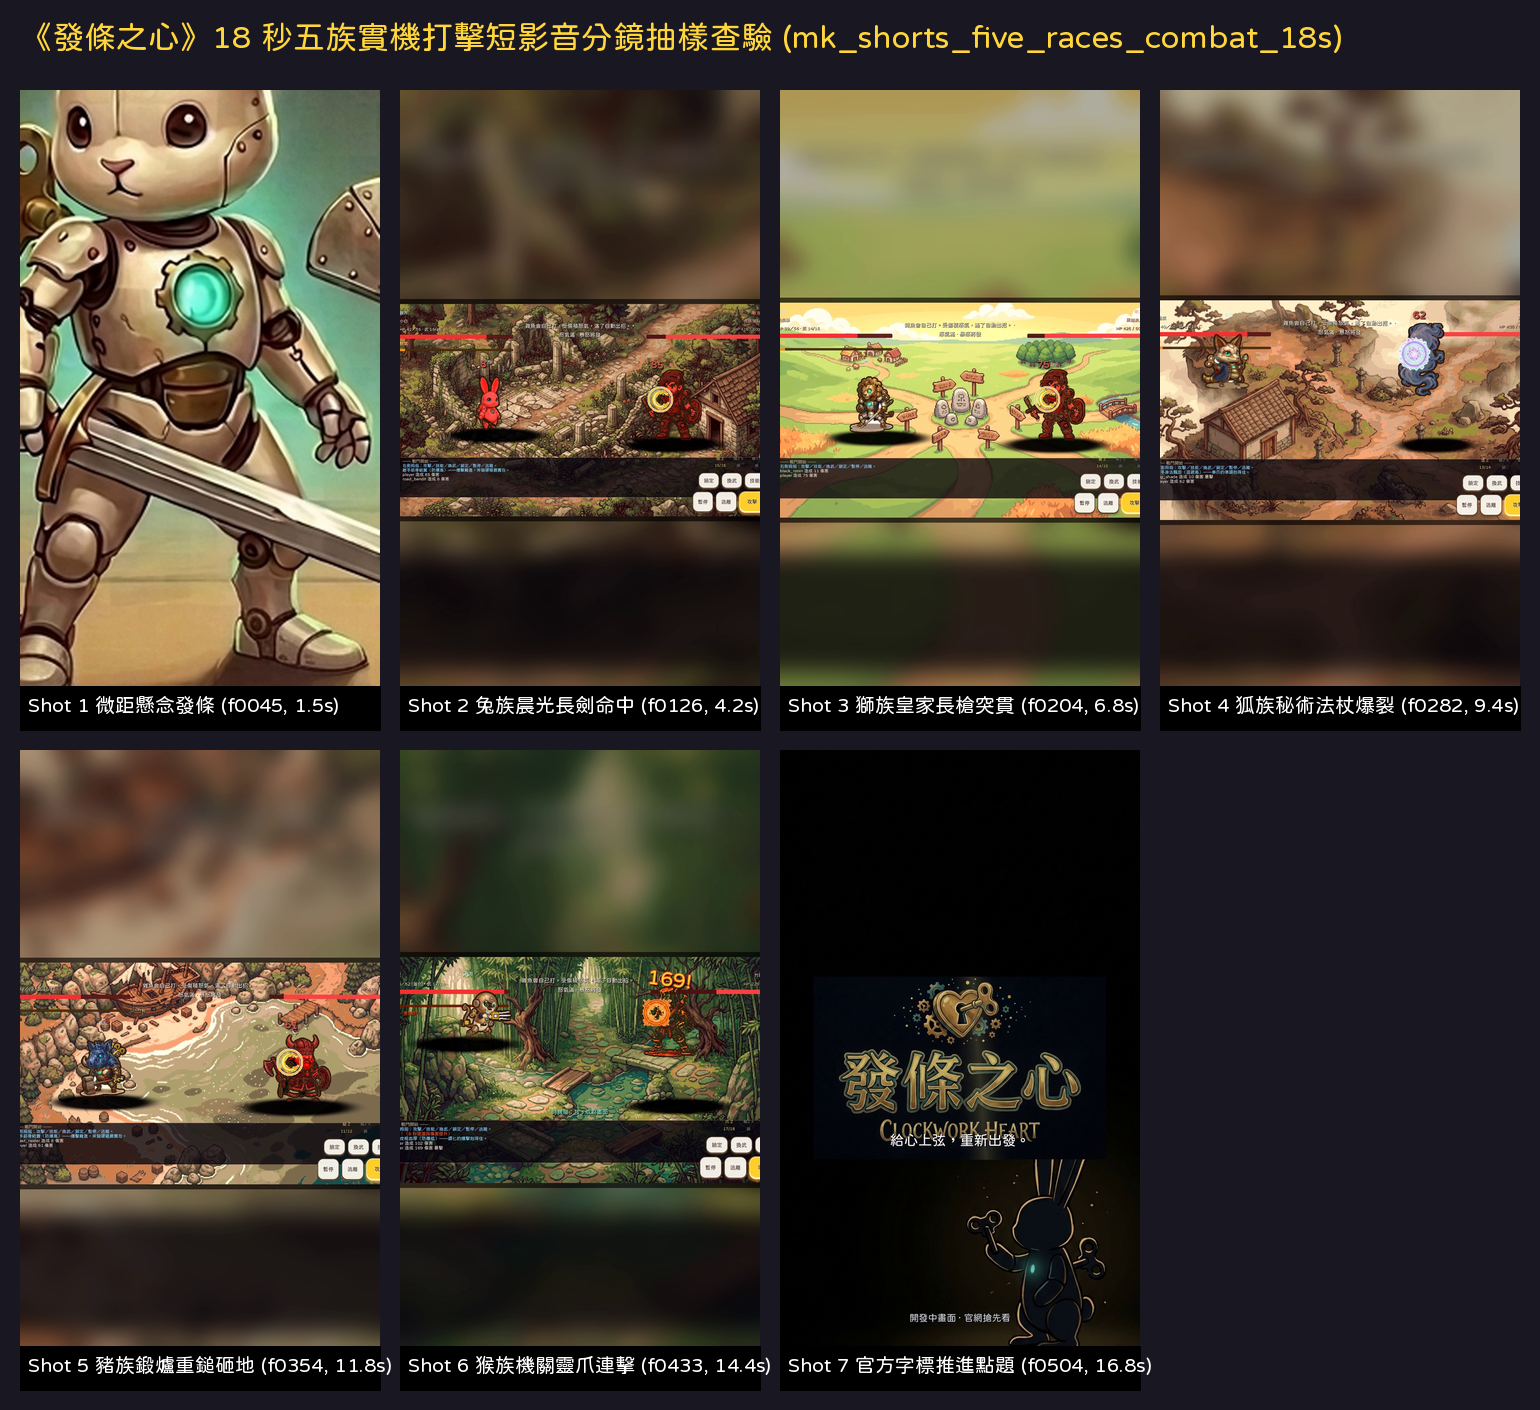
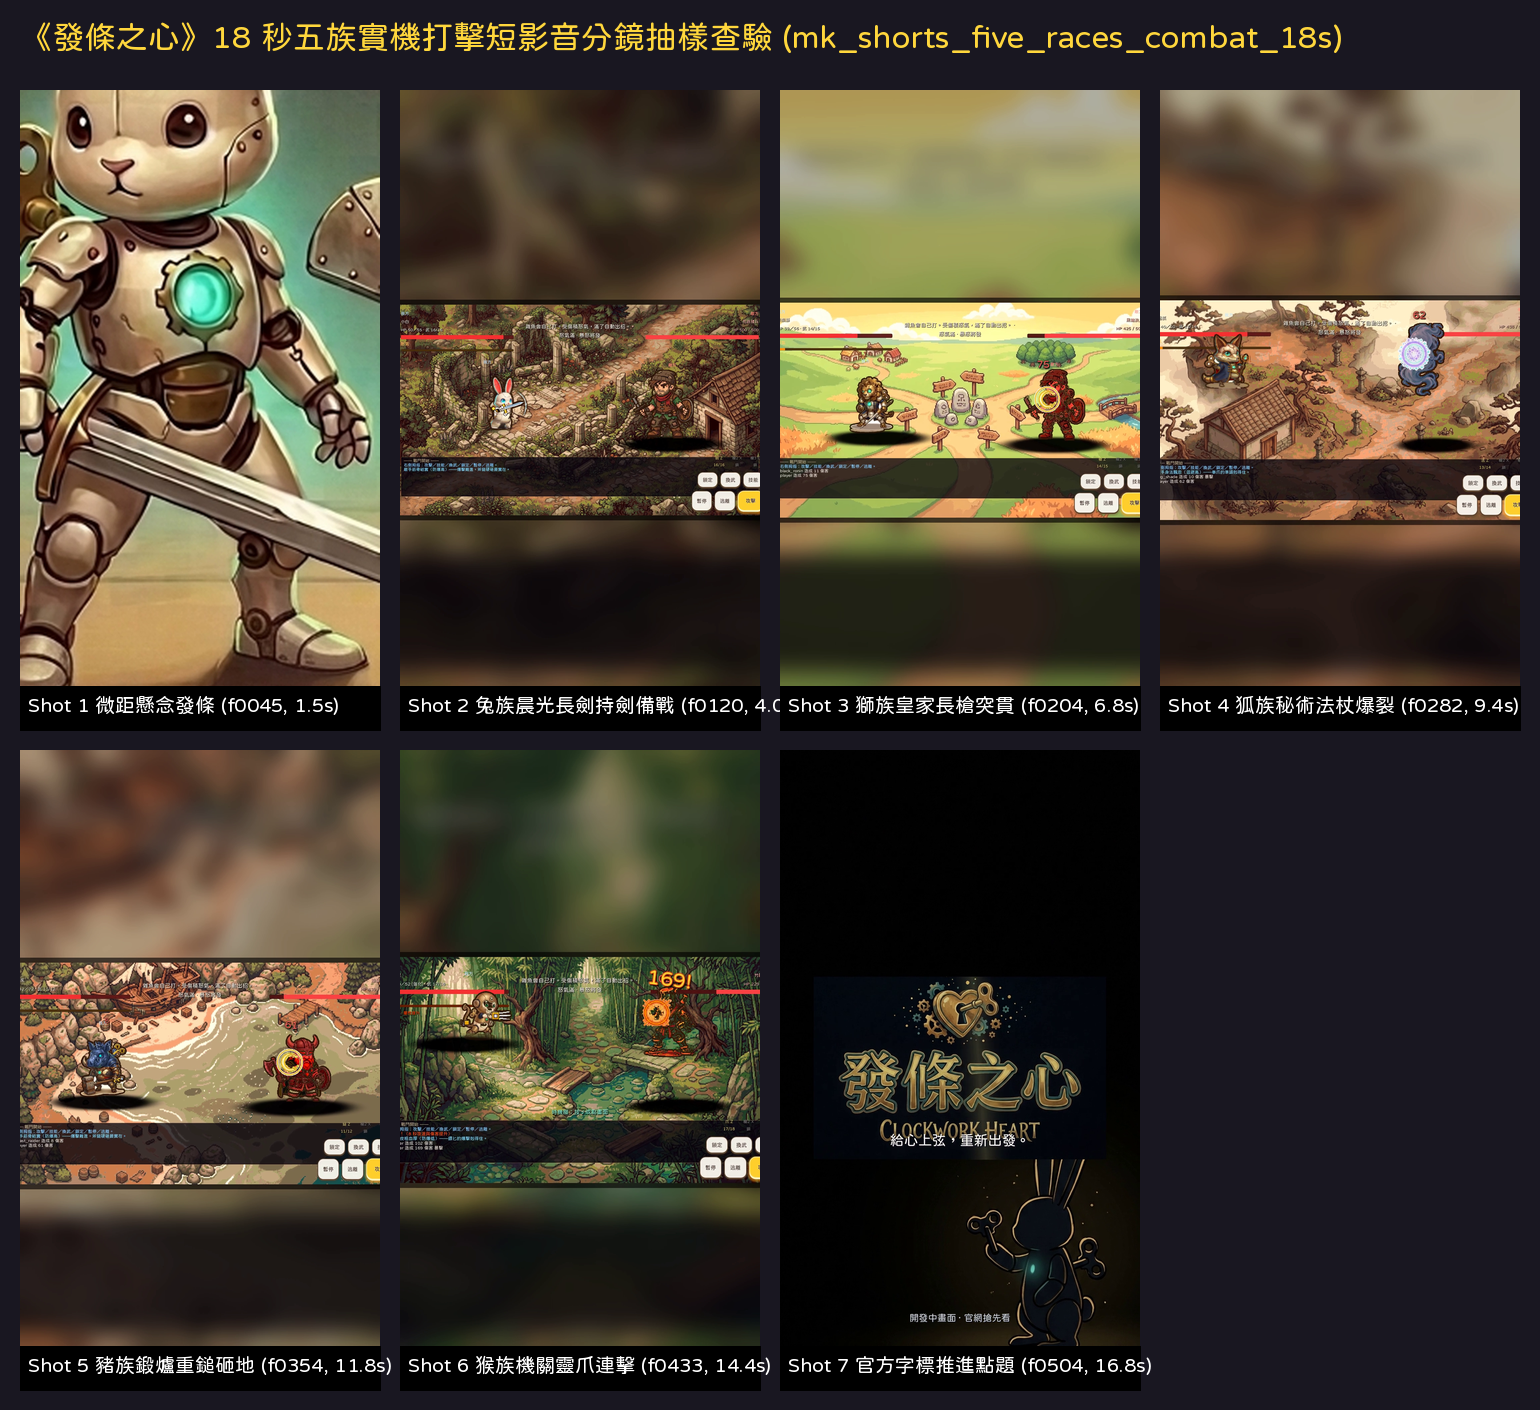
fix(marketing): 兔族抽樣改為方案 A 動作區間持劍備戰格 (f0120) 並更新 contact sheet 與同源查驗 (t_295a6376)

Changed region(s): [[0.2494, 0.2184, 0.4987, 0.3745], [0.4052, 0.4681, 0.4675, 0.5305]]

diff --git a/tools/verify_director_standards.py b/tools/verify_director_standards.py
@@ -34,7 +34,7 @@ frame_idx = 0
 
 sample_targets = {
     45: "proof_f0045_shot1_macro.png",
-    126: "proof_f0126_rabbit_dawn_blade.png",
+    120: "proof_f0120_rabbit_ready_dawn_blade.png",
     204: "proof_f0204_lion_knight_pike.png",
     282: "proof_f0282_fox_star_rod.png",
     354: "proof_f0354_boar_anvil_hammer.png",
@@ -98,17 +98,19 @@ for f_idx, proof_fname in sample_targets.items():
     # 由於 ffmpeg -ss 精確取樣與逐幀解出的時間戳對齊，驗證像素差極小 (小於 0.05)
     assert p_diff < 0.05, f"Proof {proof_fname} does not match video frame {f_idx} (diff={p_diff})!"
 
-# 6. 逐項查核五族代表格：零勝利結算畫面 (無「勝 利」、無「勝利！」)、有命中特效或傷害跳字
+# 6. 逐項查核五族代表格：零勝利結算畫面 (無「勝 利」、無「勝利！」)、武器持握與打擊效果
+# 遵照總監二退指示：採方案 A 動作區間規範，兔族代表格改為 f0120（持劍備戰），實證銀刃長劍在手；
+# 成片動作區間完整保留 f0116~f0130（拔刀→突進→命中），並在下方加驗 f0126 命中幀之受擊與跳字。
 combat_samples = [
-    ("Rabbit", "proof_f0126_rabbit_dawn_blade.png"),
-    ("Lion", "proof_f0204_lion_knight_pike.png"),
-    ("Fox", "proof_f0282_fox_star_rod.png"),
-    ("Boar", "proof_f0354_boar_anvil_hammer.png"),
-    ("Macaque", "proof_f0433_macaque_hunt_claw.png"),
+    ("Rabbit", "proof_f0120_rabbit_ready_dawn_blade.png", True),
+    ("Lion", "proof_f0204_lion_knight_pike.png", False),
+    ("Fox", "proof_f0282_fox_star_rod.png", False),
+    ("Boar", "proof_f0354_boar_anvil_hammer.png", False),
+    ("Macaque", "proof_f0433_macaque_hunt_claw.png", False),
 ]
 
-print("\n>>> 查核五族代表格之打擊效果與零勝利結算狀態 (第 19i 條):")
-for rname, fname in combat_samples:
+print("\n>>> 查核五族代表格之零勝利結算狀態與武器/打擊效果 (第 19i 條):")
+for rname, fname, is_ready_pose in combat_samples:
     p = os.path.join(SHOTS_DIR, fname)
     arr = np.array(Image.open(p).convert("RGB"))
     
@@ -128,6 +130,31 @@ for rname, fname in combat_samples:
     print(f"  [{rname}] gold_banner_px={gold_banner_px}, green_victory_px={green_victory_px}, red_hit_px={red_hit_px}, yel_hit_px={yel_hit_px}")
     assert gold_banner_px < 50, f"[{rname}] Detected victory banner in combat frame!"
     assert green_victory_px < 50, f"[{rname}] Detected victory log in combat frame!"
-    assert (red_hit_px > 200 or yel_hit_px > 200), f"[{rname}] No hit effect or damage float detected!"
+    
+    if is_ready_pose:
+        # 方案 A：兔族 f0120 為持劍備戰姿態，驗證晨光長劍（金屬刃+藍十字護手）在手
+        rabbit_box = arr[800:1100, 300:600]
+        metal_blade_px = np.sum((rabbit_box[:,:,0] > 180) & (rabbit_box[:,:,1] > 180) & (rabbit_box[:,:,2] > 180))
+        blue_guard_px = np.sum((rabbit_box[:,:,2] > 140) & (rabbit_box[:,:,2] > rabbit_box[:,:,0] + 30))
+        print(f"  [{rname}] 方案 A 持劍備戰格武器檢測: metal_blade_px={metal_blade_px}, blue_guard_px={blue_guard_px}")
+        assert metal_blade_px > 500 and blue_guard_px > 500, f"[{rname}] Weapon entity (dawn_blade) not detected in rabbit hand!"
+        assert yel_hit_px < 50, f"[{rname}] Enemy should not have golden hit ring in ready pose frame!"
+    else:
+        assert (red_hit_px > 200 or yel_hit_px > 200), f"[{rname}] No hit effect or damage float detected!"
+
+# 7. 驗證兔族成片動作區間 (f0116~f0130) 之命中受擊幀 (f0126)
+f126_arr = extracted_samples.get(126)
+if f126_arr is None:
+    # 從影片提取 frame 126
+    f126_raw = subprocess.check_output([
+        "ffmpeg", "-ss", "4.200", "-i", VIDEO_PATH, "-vframes", "1", "-f", "rawvideo", "-pix_fmt", "rgb24", "-"
+    ])
+    f126_arr = np.frombuffer(f126_raw, dtype=np.uint8).reshape((HEIGHT, WIDTH, 3))
+
+f126_enemy_box = f126_arr[750:1150, 550:950]
+f126_red_hit = np.sum((f126_enemy_box[:,:,0] > 190) & (f126_enemy_box[:,:,1] < 130) & (f126_enemy_box[:,:,2] < 130))
+f126_yel_hit = np.sum((f126_enemy_box[:,:,0] > 200) & (f126_enemy_box[:,:,1] > 150) & (f126_enemy_box[:,:,2] < 100))
+print(f"\n>>> 兔族成片動作區間命中受擊幀 (f0126) 查驗: red_hit_px={f126_red_hit}, yel_hit_px={f126_yel_hit}")
+assert (f126_red_hit > 200 or f126_yel_hit > 200), "Rabbit combat sequence missing hit FX or damage float at frame 126!"
 
 print("\n>>> 所有檢查項 100% 全部通過！符合總監驗收標準！")

diff --git a/tools/render_five_races_short.py b/tools/render_five_races_short.py
@@ -277,7 +277,7 @@ def generate_contact_sheet(video_path):
     
     # 7 幀精確抽格（依據審查意見：標籤與畫面實際內容 100% 一致，標明第幾格）：
     # 1. Shot 1 (1.50s, f0045): 微距懸念發條特寫
-    # 2. Shot 2 (4.20s, f0126): 兔族晨光長劍命中 (紅字85+受擊特效)
+    # 2. Shot 2 (4.00s, f0120): 兔族晨光長劍持劍備戰 (長劍在手·動作區間f0116-f0130)
     # 3. Shot 3 (6.80s, f0204): 獅族皇家長槍突貫 (紅字75+槍尖穿透)
     # 4. Shot 4 (9.40s, f0282): 狐族秘術法杖爆裂 (紅字62+光環爆裂)
     # 5. Shot 5 (11.80s, f0354): 豬族鍛爐重鎚砸地 (紅字61+轟擊特效)
@@ -285,7 +285,7 @@ def generate_contact_sheet(video_path):
     # 7. Shot 7 (16.80s, f0504): 官方字標推進點題 (8%推進+流光呼吸)
     sample_items = [
         ("Shot 1 微距懸念發條 (f0045, 1.5s)", 1.500, "proof_f0045_shot1_macro.png"),
-        ("Shot 2 兔族晨光長劍命中 (f0126, 4.2s)", 4.200, "proof_f0126_rabbit_dawn_blade.png"),
+        ("Shot 2 兔族晨光長劍持劍備戰 (f0120, 4.0s)", 4.000, "proof_f0120_rabbit_ready_dawn_blade.png"),
         ("Shot 3 獅族皇家長槍突貫 (f0204, 6.8s)", 6.800, "proof_f0204_lion_knight_pike.png"),
         ("Shot 4 狐族秘術法杖爆裂 (f0282, 9.4s)", 9.400, "proof_f0282_fox_star_rod.png"),
         ("Shot 5 豬族鍛爐重鎚砸地 (f0354, 11.8s)", 11.800, "proof_f0354_boar_anvil_hammer.png"),
